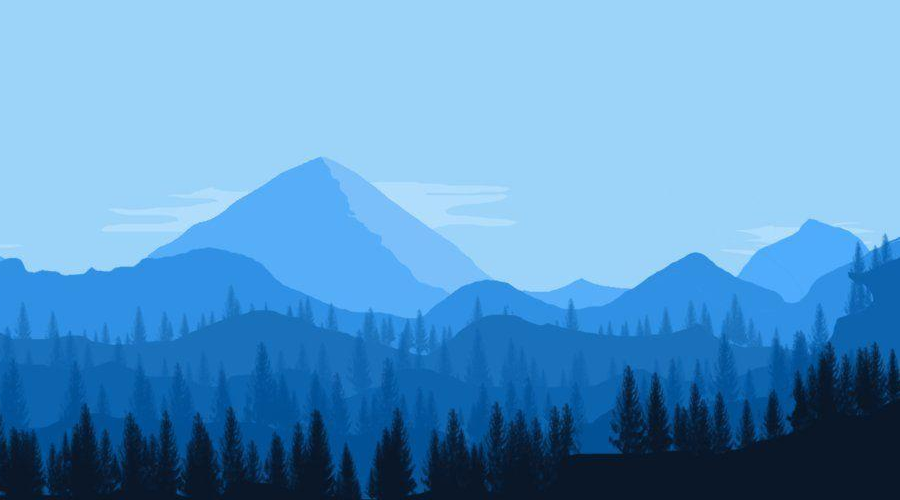
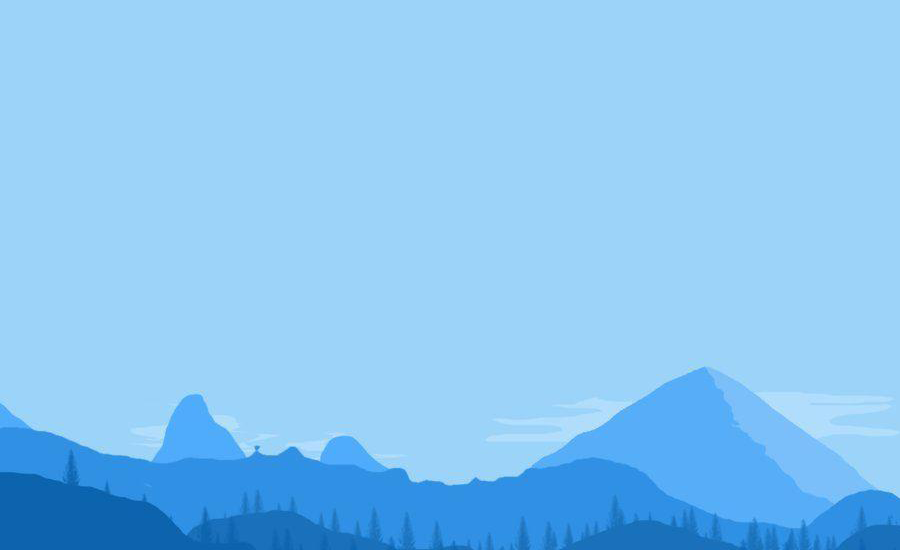
update2 - added bg + GUI Modifications

diff --git a/Weatherapp.py b/Weatherapp.py
@@ -1,5 +1,6 @@
 import tkinter as tk
 from tkinter import ttk
+from tkinter import PhotoImage, Label
 import requests
 from tkinter import messagebox
 from PIL import Image, ImageTk
@@ -39,7 +40,7 @@ def getweather(city):
 #functions
 def search():
     try:
-        city = 'galle'
+        city = search_bar.get()
         weather = getweather(city)
         if weather:
             city_name['text'] = '{}, {}'.format(weather[0], weather[1])
@@ -68,44 +69,49 @@ display_width = weatherapp.winfo_screenwidth()
 display_height = weatherapp.winfo_screenheight()
 
 left = (display_width - 900) / 2
-top = (display_height - 500) / 2
+top = (display_height - 550) / 2
 
-weatherapp.geometry(f'900x500+{int(left)}+{int(top)}')
+weatherapp.geometry(f'900x550+{int(left)}+{int(top)}')
 weatherapp.resizable(False, False)
-weatherapp.configure(bg='blue')
+
+bg_img = PhotoImage(file='background_img.png')
+bg_label = ttk.Label(weatherapp, image=bg_img)
+bg_label.place(x=0, y=0, relwidth=1, relheight=1)
+
+bg_label.image = bg_img
 
 style = ttk.Style()
 
 search_bar = ttk.Entry(weatherapp, width=40, style='search.TEntry')
-style.configure('search.TEntry', font=('Arial', 15))
-search_bar.place(x=300, y=50)
+style.configure('search.TEntry', font=('Arial', 15), padding=5, relief='solid', background='#9CD4F9')
+search_bar.place(x=290, y=50)
 
 search_button = ttk.Button(weatherapp, text='Search', width=10, style='search.TButton', command=search)
-style.configure('search.TButton', font=('Arial', 8), padding=5)
+style.configure('search.TButton', font=('Arial', 8), padding=5, relief='solid', foreground='#080767')
 search_button.place(x=550, y=50)
 
 city_name = ttk.Label(weatherapp, text='', style='city.TLabel')
-style.configure('city.TLabel', font=('Segoe UI Semibold', 20), foreground='white', background='blue')
+style.configure('city.TLabel', font=('Segoe UI Semibold', 20), foreground='#080767', background='#9CD4F9')
 city_name.place(x=370, y=100)
 
 date_lbl = ttk.Label(weatherapp, text='', style='date.TLabel')
-style.configure('date.TLabel', font=('Segoe UI Semibold', 10), foreground='white', background='blue')
+style.configure('date.TLabel', font=('Segoe UI Semibold', 10), foreground='#080767', background='#9CD4F9')
 date_lbl.place(x=340, y=140)
 
 weather_icon = ttk.Label(weatherapp, style='icon.TLabel')
-style.configure('icon.TLabel', background='blue')
+style.configure('icon.TLabel', background='#9CD4F9')
 weather_icon.place(x=400, y=180)
 
 temp_lbl = ttk.Label(weatherapp, text='', style='temp.TLabel')
-style.configure('temp.TLabel', font=('Segoe UI Semibold', 50, 'bold'), foreground='white', background='blue')
+style.configure('temp.TLabel', font=('Segoe UI Semibold', 50, 'bold'), foreground='#080767', background='#9CD4F9')
 temp_lbl.place(x=340, y=230)
 
 desc_lbl = ttk.Label(weatherapp, text='', style='desc.TLabel')
-style.configure('desc.TLabel', font=('Segoe UI Semibold', 16, 'italic bold'), foreground='white', background='blue')
+style.configure('desc.TLabel', font=('Segoe UI Semibold', 16, 'italic bold'), foreground='#080767', background='#9CD4F9')
 desc_lbl.place(x=370, y=325)
 
 maxmintemp_lbl = ttk.Label(weatherapp, text='', style='maxmin.TLabel')
-style.configure('maxmin.TLabel', font=('Segoe UI Semibold', 13, 'bold'), foreground='white', background='blue')
+style.configure('maxmin.TLabel', font=('Segoe UI Semibold', 13, 'bold'), foreground='#080767', background='#9CD4F9')
 maxmintemp_lbl.place(x=400, y=360)
 
 weatherapp.mainloop()
